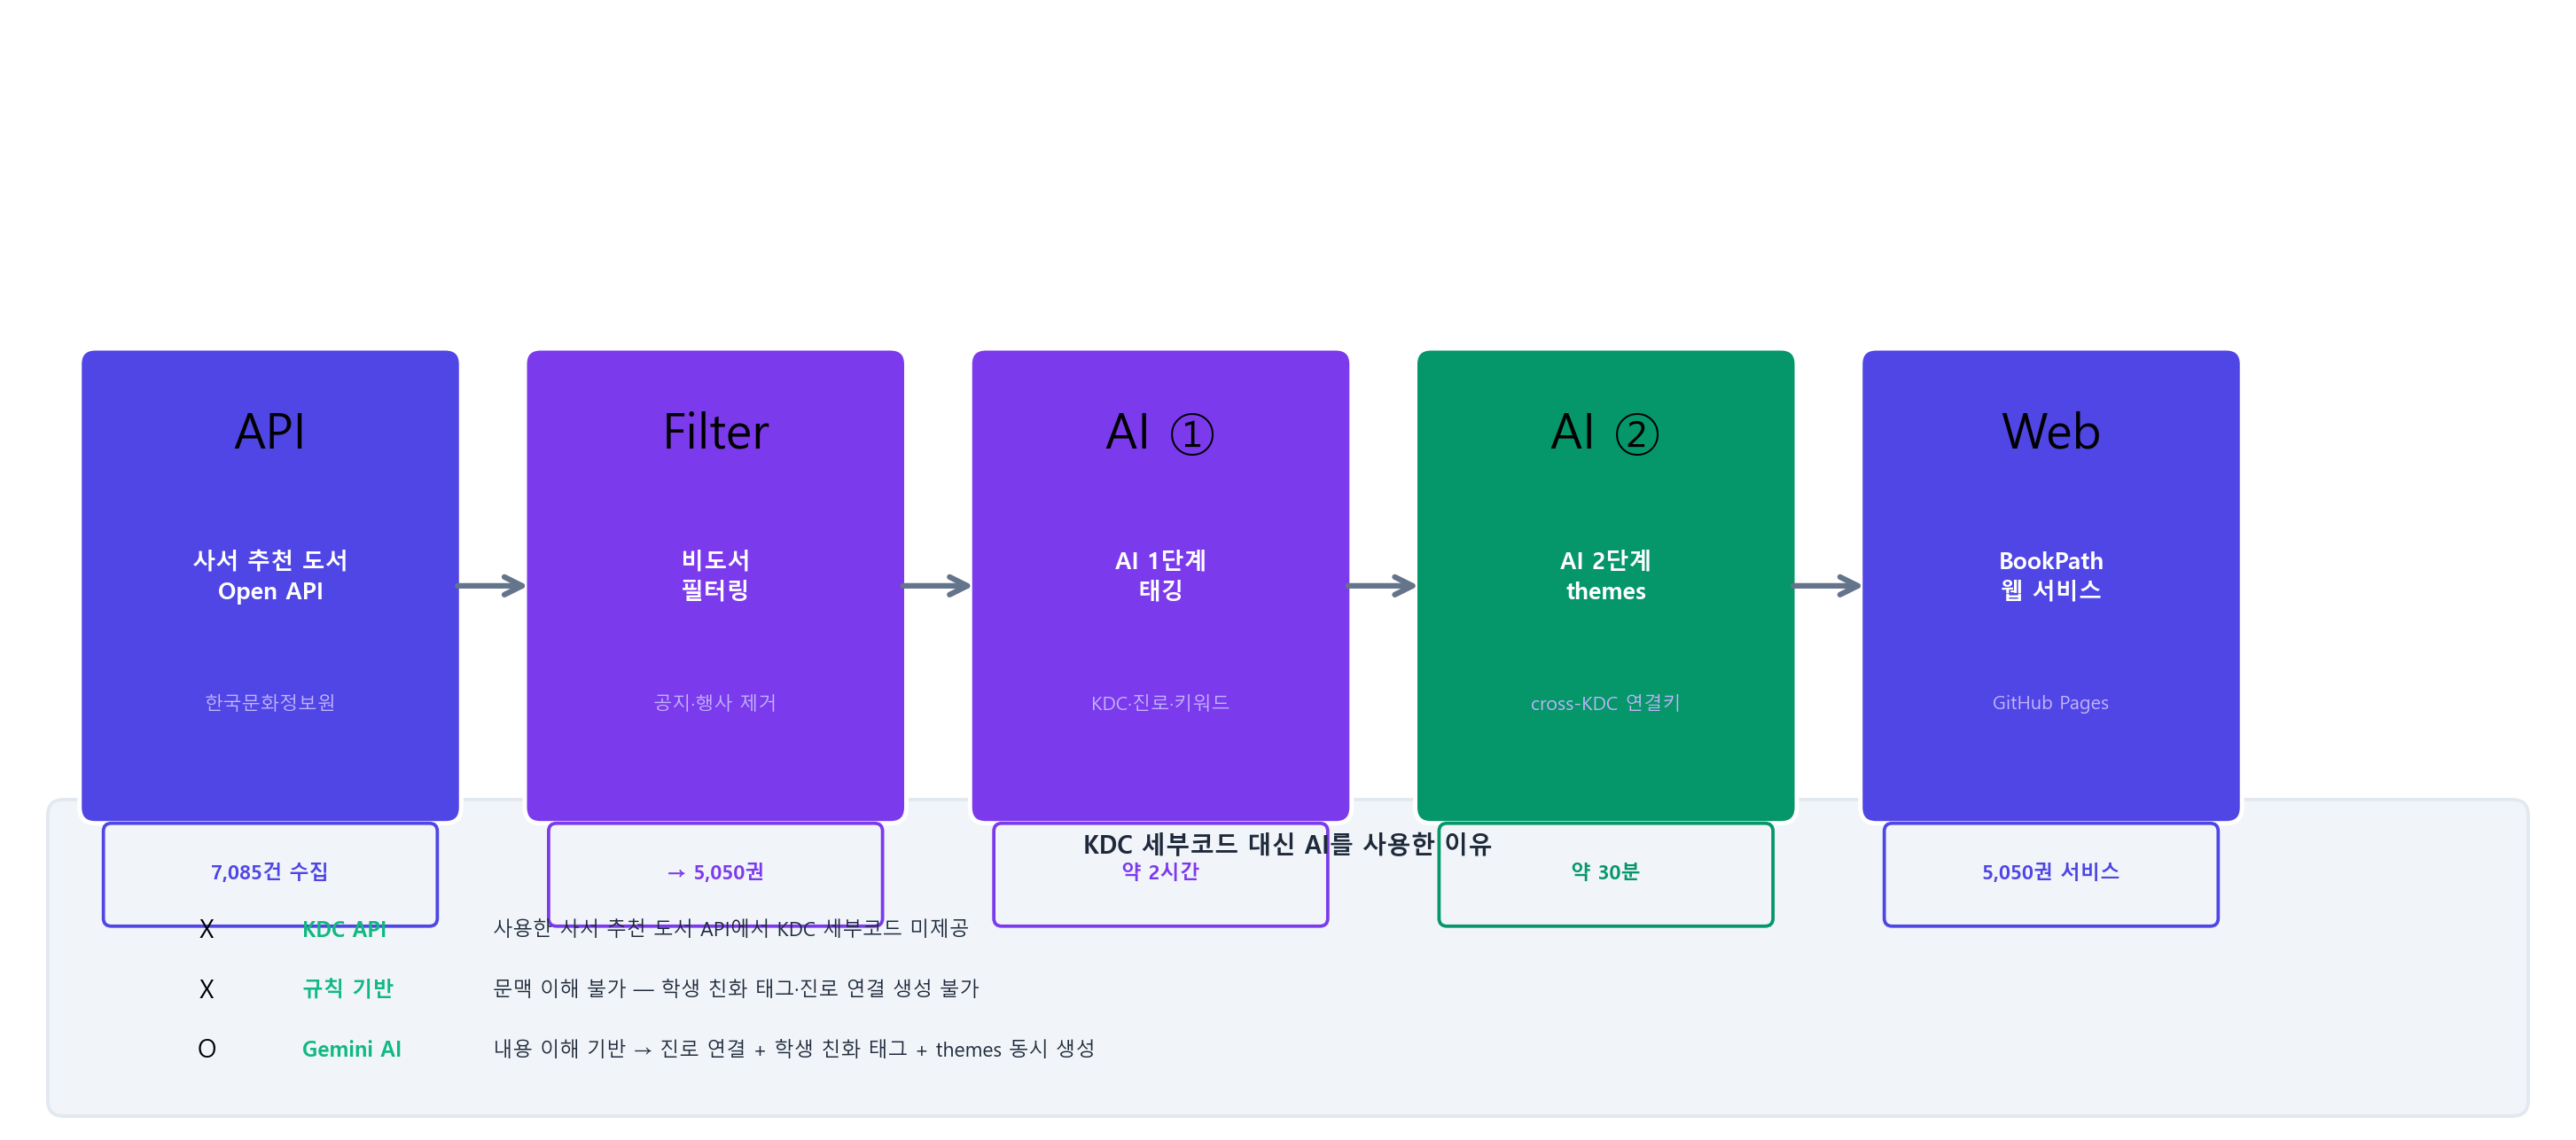
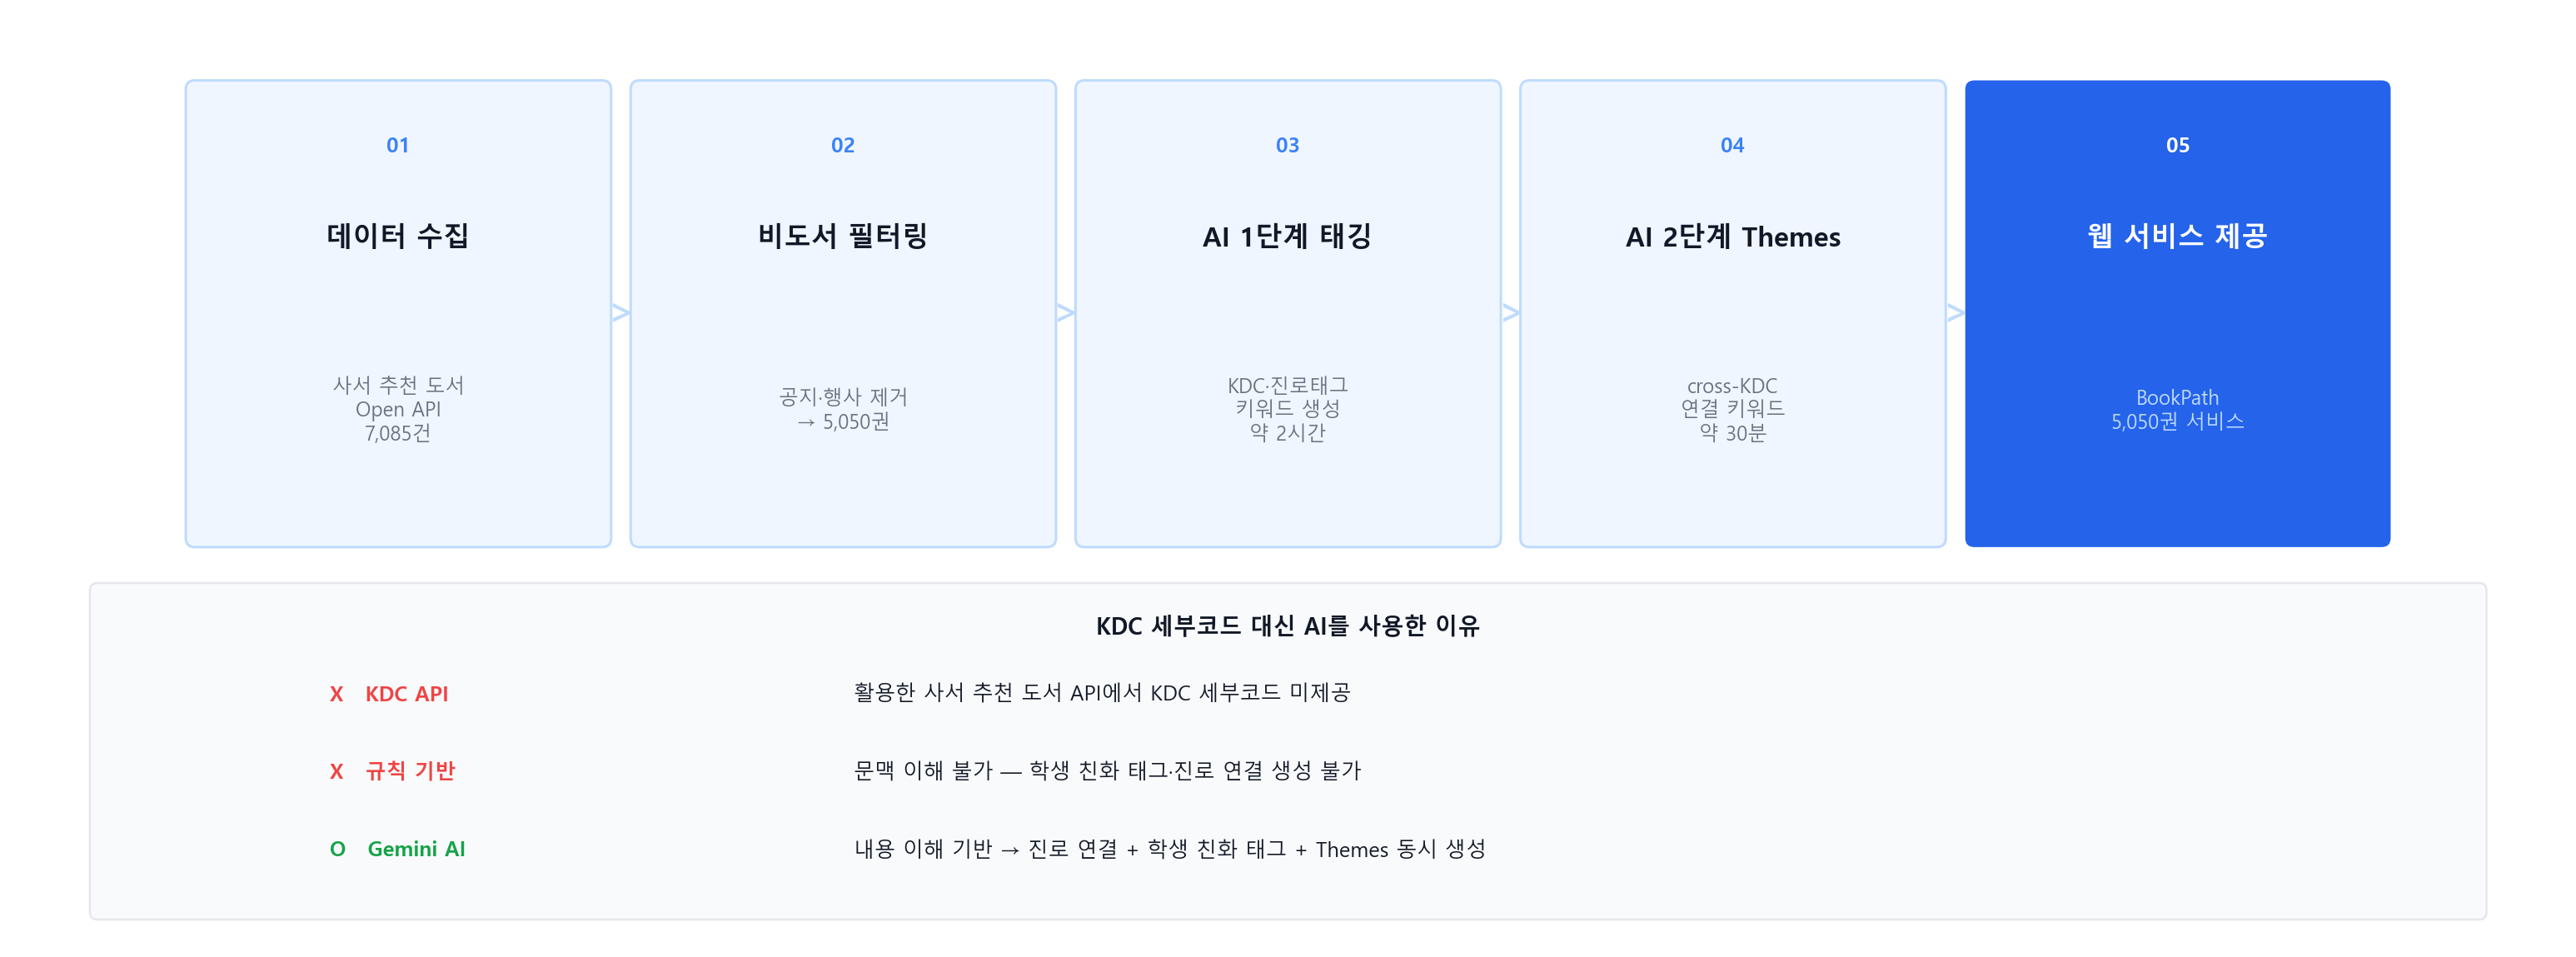
Update data flow chart to match PPT design style

diff --git a/make_flow_chart.py b/make_flow_chart.py
@@ -4,154 +4,98 @@ import matplotlib.pyplot as plt
 import matplotlib.patches as mpatches
 import matplotlib.font_manager as fm
 
-# 한글 폰트 설정
+# 한글 폰트
 for fname in fm.findSystemFonts():
-    if 'malgun' in fname.lower() or 'nanumgothic' in fname.lower():
+    if 'malgun' in fname.lower():
         plt.rcParams['font.family'] = fm.FontProperties(fname=fname).get_name()
         break
 
-fig, ax = plt.subplots(figsize=(16, 7))
-ax.set_xlim(0, 16)
-ax.set_ylim(0, 7)
+# PPT 디자인 색상
+WHITE   = '#ffffff'
+DARK    = '#111827'
+BLUE    = '#2563eb'
+BLUE_LT = '#eff6ff'
+BLUE_MD = '#bfdbfe'
+MUTED   = '#6b7280'
+GRAY_BG = '#f9fafb'
+GRAY_BD = '#e5e7eb'
+RED_C   = '#ef4444'
+GREEN_C = '#16a34a'
+NUM_C   = '#3b82f6'
+
+def txt(ax, s, x, y, size=12, bold=False, color=DARK, ha='center', va='center'):
+    ax.text(x, y, s, ha=ha, va=va, fontsize=size,
+            fontweight='bold' if bold else 'normal',
+            color=color, zorder=4)
+
+def rbox(ax, x, y, w, h, fc=BLUE_LT, ec=BLUE_MD, lw=1.2, r=0.06):
+    ax.add_patch(mpatches.FancyBboxPatch(
+        (x, y), w, h, boxstyle=f"round,pad={r}",
+        facecolor=fc, edgecolor=ec, linewidth=lw, zorder=3))
+
+# ── 캔버스 ────────────────────────────────────────────────────────────────────
+fig, ax = plt.subplots(figsize=(17, 6.2))
+ax.set_xlim(0, 17)
+ax.set_ylim(0, 6.2)
 ax.axis('off')
-fig.patch.set_facecolor('white')
+fig.patch.set_facecolor(WHITE)
+ax.set_facecolor(WHITE)
 
-# 색상
-INDIGO  = '#4f46e5'
-PURPLE  = '#7c3aed'
-GREEN   = '#10b981'
-GRAY    = '#f1f5f9'
-DARK    = '#1e293b'
-MUTED   = '#64748b'
-WHITE   = 'white'
-
+# ── 흐름 단계 ─────────────────────────────────────────────────────────────────
 steps = [
-    {
-        'icon': 'API',
-        'title': '사서 추천 도서\nOpen API',
-        'desc': '한국문화정보원',
-        'stat': '7,085건 수집',
-        'color': INDIGO,
-    },
-    {
-        'icon': 'Filter',
-        'title': '비도서\n필터링',
-        'desc': '공지·행사 제거',
-        'stat': '→ 5,050권',
-        'color': PURPLE,
-    },
-    {
-        'icon': 'AI ①',
-        'title': 'AI 1단계\n태깅',
-        'desc': 'KDC·진로·키워드',
-        'stat': '약 2시간',
-        'color': '#7c3aed',
-    },
-    {
-        'icon': 'AI ②',
-        'title': 'AI 2단계\nthemes',
-        'desc': 'cross-KDC 연결키',
-        'stat': '약 30분',
-        'color': '#059669',
-    },
-    {
-        'icon': 'Web',
-        'title': 'BookPath\n웹 서비스',
-        'desc': 'GitHub Pages',
-        'stat': '5,050권 서비스',
-        'color': INDIGO,
-    },
+    ('01', '데이터 수집',       '사서 추천 도서\nOpen API\n7,085건',    False),
+    ('02', '비도서 필터링',     '공지·행사 제거\n→ 5,050권',            False),
+    ('03', 'AI 1단계 태깅',     'KDC·진로태그\n키워드 생성\n약 2시간',  False),
+    ('04', 'AI 2단계 Themes',   'cross-KDC\n연결 키워드\n약 30분',      False),
+    ('05', '웹 서비스 제공',    'BookPath\n5,050권 서비스',              True),
 ]
 
-box_w = 2.2
-box_h = 2.8
-gap   = 0.6
-start_x = 0.5
-y_top = 4.8
+sw = 2.72
+gw = 0.25
+total = len(steps) * sw + (len(steps) - 1) * gw
+sx = (17 - total) / 2
+yb = 2.7
+bh = 3.0
 
-for i, step in enumerate(steps):
-    x = start_x + i * (box_w + gap)
+for i, (num, title, desc, last) in enumerate(steps):
+    x  = sx + i * (sw + gw)
+    fc = BLUE    if last else BLUE_LT
+    ec = BLUE    if last else BLUE_MD
+    tc = WHITE   if last else DARK
+    nc = WHITE   if last else NUM_C
+    dc = '#bfdbfe' if last else MUTED
+    lw = 0       if last else 1.2
 
-    # 박스
-    rect = mpatches.FancyBboxPatch(
-        (x, y_top - box_h), box_w, box_h,
-        boxstyle="round,pad=0.1",
-        facecolor=step['color'], edgecolor='white', linewidth=2,
-        zorder=3
-    )
-    ax.add_patch(rect)
+    rbox(ax, x, yb, sw, bh, fc=fc, ec=ec, lw=lw)
 
-    # 아이콘
-    ax.text(x + box_w/2, y_top - 0.45, step['icon'],
-            ha='center', va='center', fontsize=22, zorder=4)
+    txt(ax, num,   x+sw/2, yb+bh-0.38, size=10, bold=True,  color=nc)
+    txt(ax, title, x+sw/2, yb+bh-1.0,  size=13, bold=True,  color=tc)
+    txt(ax, desc,  x+sw/2, yb+bh-2.15, size=9.5,            color=dc)
 
-    # 제목
-    ax.text(x + box_w/2, y_top - 1.35, step['title'],
-            ha='center', va='center', fontsize=10.5, fontweight='bold',
-            color=WHITE, zorder=4, linespacing=1.4)
-
-    # 설명
-    ax.text(x + box_w/2, y_top - 2.15, step['desc'],
-            ha='center', va='center', fontsize=8.5,
-            color='#c4b5fd' if step['color'] != GREEN else '#6ee7b7',
-            zorder=4)
-
-    # 수치 (박스 아래)
-    stat_bg = mpatches.FancyBboxPatch(
-        (x + 0.1, y_top - box_h - 0.7), box_w - 0.2, 0.55,
-        boxstyle="round,pad=0.05",
-        facecolor=GRAY, edgecolor=step['color'], linewidth=1.5, zorder=3
-    )
-    ax.add_patch(stat_bg)
-    ax.text(x + box_w/2, y_top - box_h - 0.42, step['stat'],
-            ha='center', va='center', fontsize=9, fontweight='bold',
-            color=step['color'], zorder=4)
-
-    # 화살표
     if i < len(steps) - 1:
-        arrow_x = x + box_w + 0.05
-        arrow_y = y_top - box_h/2
-        ax.annotate('',
-            xy=(arrow_x + gap - 0.1, arrow_y),
-            xytext=(arrow_x, arrow_y),
-            arrowprops=dict(arrowstyle='->', color=MUTED,
-                           lw=2.5, mutation_scale=20),
-            zorder=5
-        )
+        ax.text(x+sw+gw/2, yb+bh/2, '>',
+                ha='center', va='center', fontsize=18,
+                color=BLUE_MD, fontweight='bold', zorder=4)
 
-# 하단 박스: KDC 대신 AI 이유
-reason_y = 1.8
-rect2 = mpatches.FancyBboxPatch(
-    (0.3, 0.15), 15.4, reason_y,
-    boxstyle="round,pad=0.1",
-    facecolor=GRAY, edgecolor='#e2e8f0', linewidth=1.5, zorder=2
-)
-ax.add_patch(rect2)
+# ── KDC 대신 AI 이유 ──────────────────────────────────────────────────────────
+rbox(ax, 0.55, 0.2, 15.9, 2.15, fc=GRAY_BG, ec=GRAY_BD, lw=1, r=0.05)
 
-ax.text(8, 1.75, 'KDC 세부코드 대신 AI를 사용한 이유',
-        ha='center', va='center', fontsize=11, fontweight='bold',
-        color=DARK, zorder=3)
+txt(ax, 'KDC 세부코드 대신 AI를 사용한 이유',
+    8.5, 2.1, size=11, bold=True, color=DARK)
 
 reasons = [
-    ('X', 'KDC API', '사용한 사서 추천 도서 API에서 KDC 세부코드 미제공'),
-    ('X', '규칙 기반', '문맥 이해 불가 — 학생 친화 태그·진로 연결 생성 불가'),
-    ('O', 'Gemini AI', '내용 이해 기반 → 진로 연결 + 학생 친화 태그 + themes 동시 생성'),
+    (RED_C,   'X   KDC API',   '활용한 사서 추천 도서 API에서 KDC 세부코드 미제공'),
+    (RED_C,   'X   규칙 기반', '문맥 이해 불가 — 학생 친화 태그·진로 연결 생성 불가'),
+    (GREEN_C, 'O   Gemini AI', '내용 이해 기반 → 진로 연결 + 학생 친화 태그 + Themes 동시 생성'),
 ]
+for j, (col, label, desc) in enumerate(reasons):
+    yr = 1.65 - j * 0.52
+    txt(ax, label, 2.1, yr, size=10, bold=True, color=col, ha='left')
+    txt(ax, desc,  5.6, yr, size=10,             color=DARK, ha='left')
 
-cols_x = [1.2, 1.8, 3.0]
-for j, (icon, label, desc) in enumerate(reasons):
-    y_r = 1.22 - j * 0.38
-    color = '#ef4444' if icon == '❌' else '#10b981'
-    ax.text(cols_x[0], y_r, icon, ha='center', va='center',
-            fontsize=11, zorder=3)
-    ax.text(cols_x[1], y_r, label, ha='left', va='center',
-            fontsize=9.5, fontweight='bold', color=color, zorder=3)
-    ax.text(cols_x[2], y_r, desc, ha='left', va='center',
-            fontsize=9, color=DARK, zorder=3)
-
-plt.tight_layout(pad=0.2)
+plt.tight_layout(pad=0.05)
 out = 'analysis/graphs/data_flow_chart.png'
 plt.savefig(out, dpi=180, bbox_inches='tight',
-            facecolor='white', edgecolor='none')
+            facecolor=WHITE, edgecolor='none')
 plt.close()
 print(f'저장 완료: {out}')